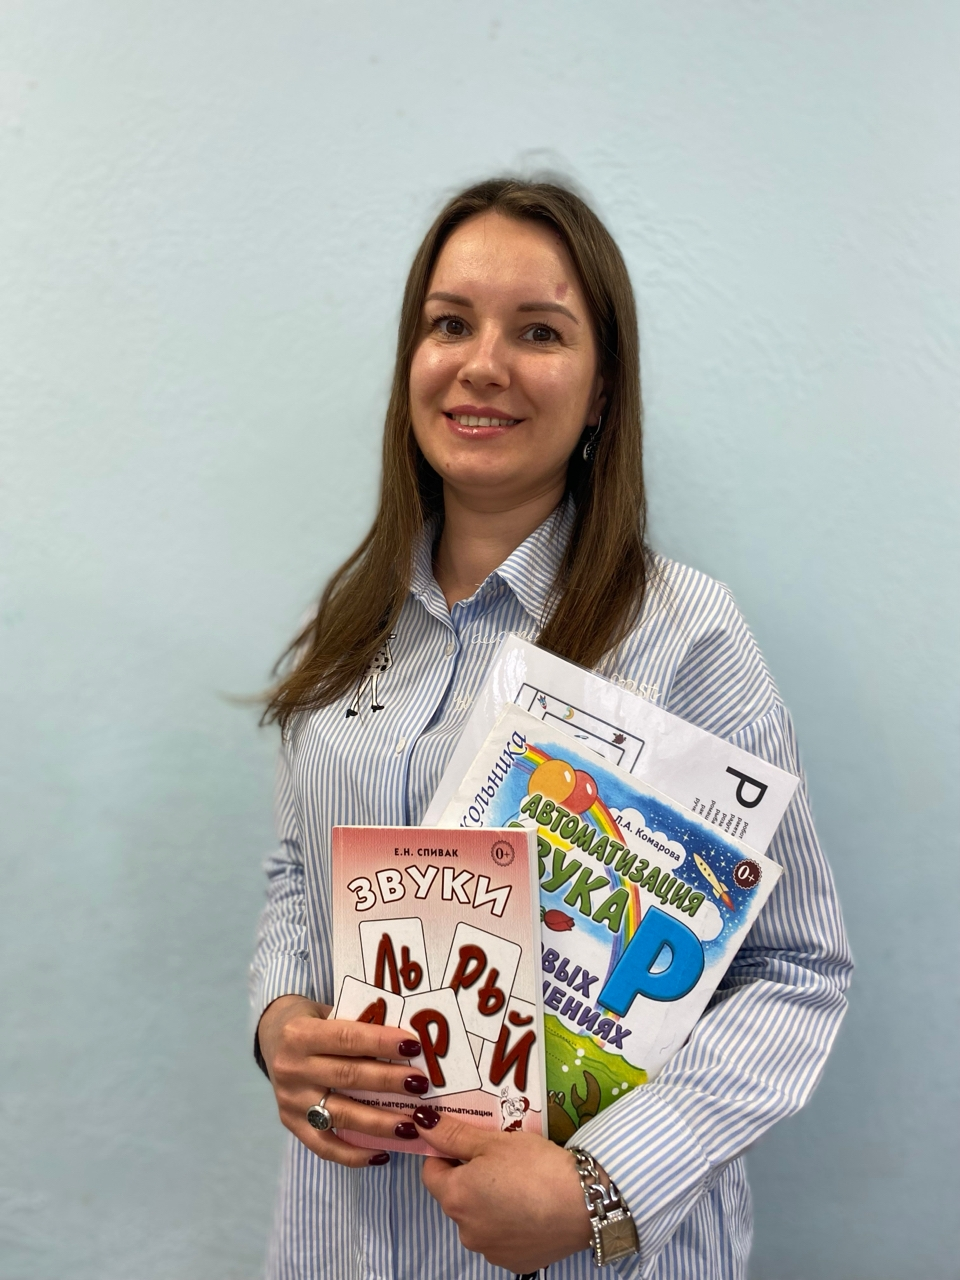
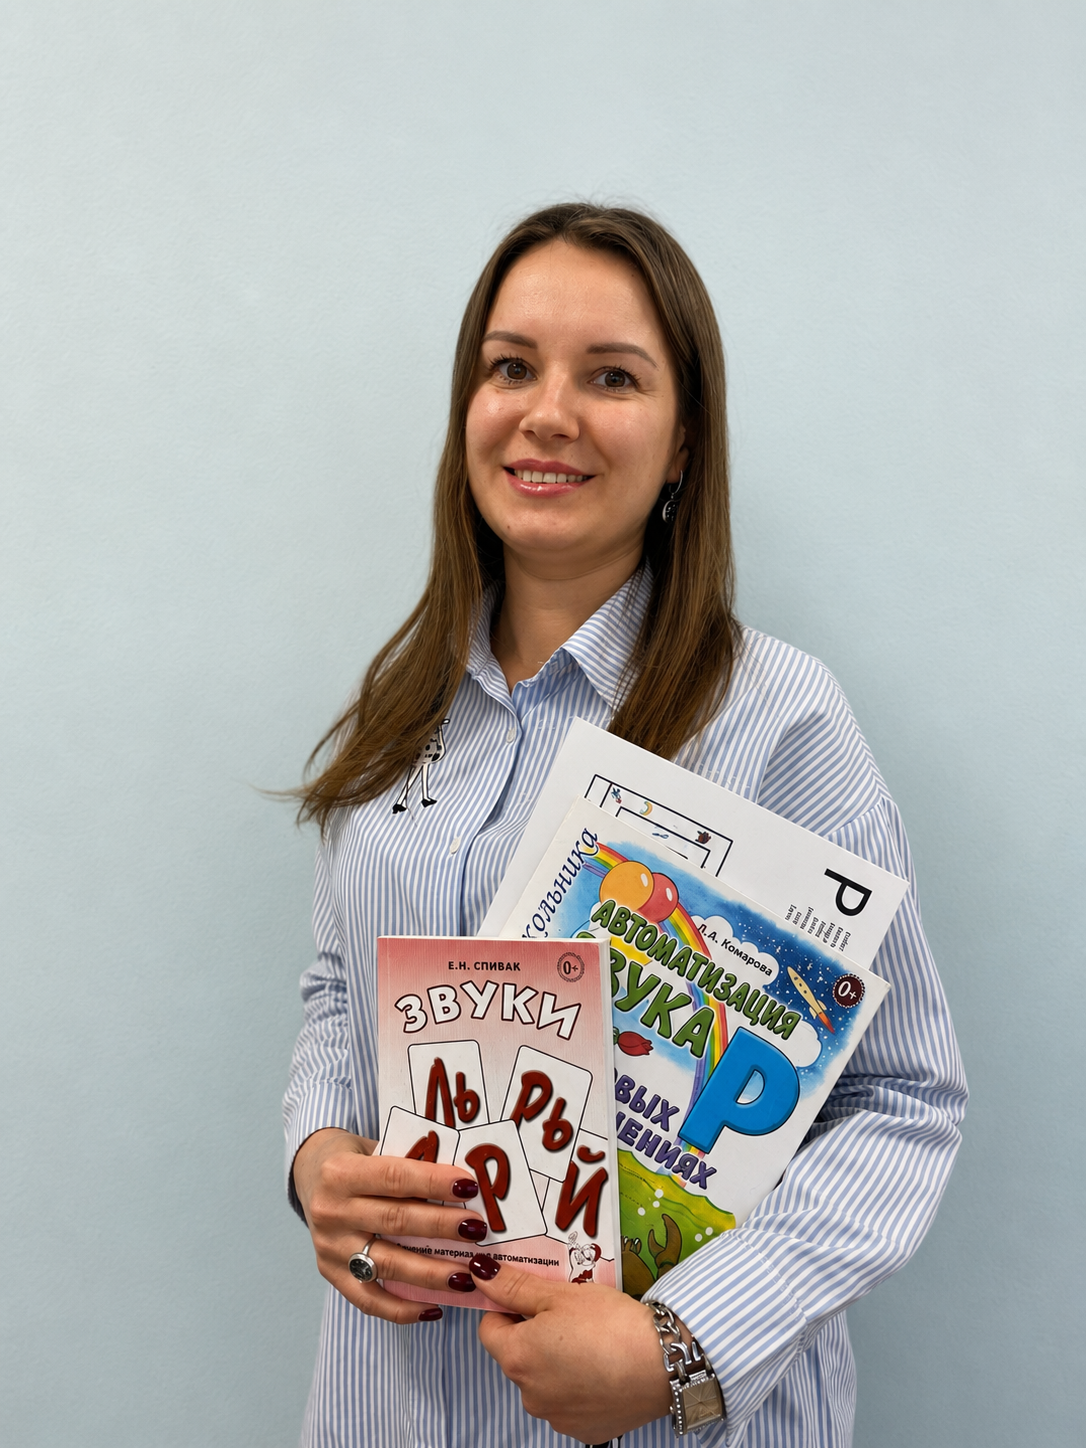
btm removed

Changed region(s): [[0.25, 0.125, 0.9062, 1.0]]

diff --git a/index.html b/index.html
@@ -53,9 +53,6 @@
                     <span class="hero__badge">Логопед • Дефектолог • Волгоград</span>
                     <h1 class="hero__title">Помогу вашему ребенку говорить красиво и уверенно</h1>
                     <p class="hero__text">Индивидуальный подход к каждому ребенку. Развитие речи, постановка звуков, подготовка к школе и логопедический массаж.</p>
-                    <div class="hero__actions">
-                        <a href="https://max.ru/u/f9LHodD0cOIoLxqWUiX7xXrguQ6YpPyCEcZRbaPZ27pCM2yNxw7x5JKXWJo" class="btn btn--primary" target="_blank">Написать в MAX</a>
-                    </div>
                 </div>
                         <!-- Правая часть с мальчиком -->
                 <div class="hero__image">
@@ -201,6 +198,9 @@
                         <div class="contacts__item">
                             <h3>Телефон:</h3>
                             <p><a href="tel:+79176430095">+7 (917) 643-00-95</a></p>
+                            <p style="margin-top: 8px;">
+                                <a href="https://max.ru/u/f9LHodD0cOIoLxqWUiX7xXrguQ6YpPyCEcZRbaPZ27pCM2yNxw7x5JKXWJo" target="_blank" style="color: #4a90e2; text-decoration: underline;">Написать в MAX</a>
+                            </p>
                         </div>
                         <div class="contacts__item">
                             <h3>Режим работы:</h3>
